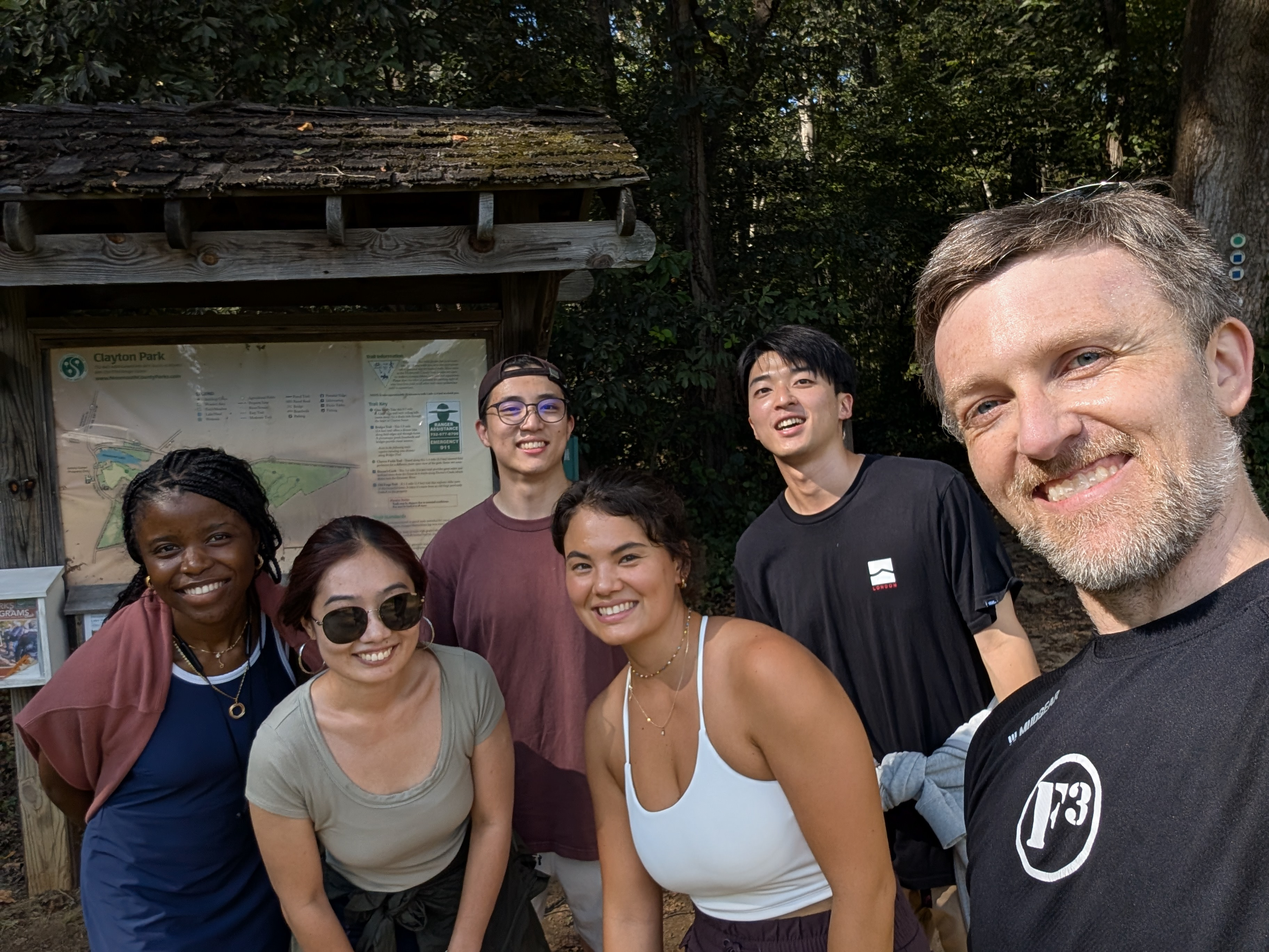
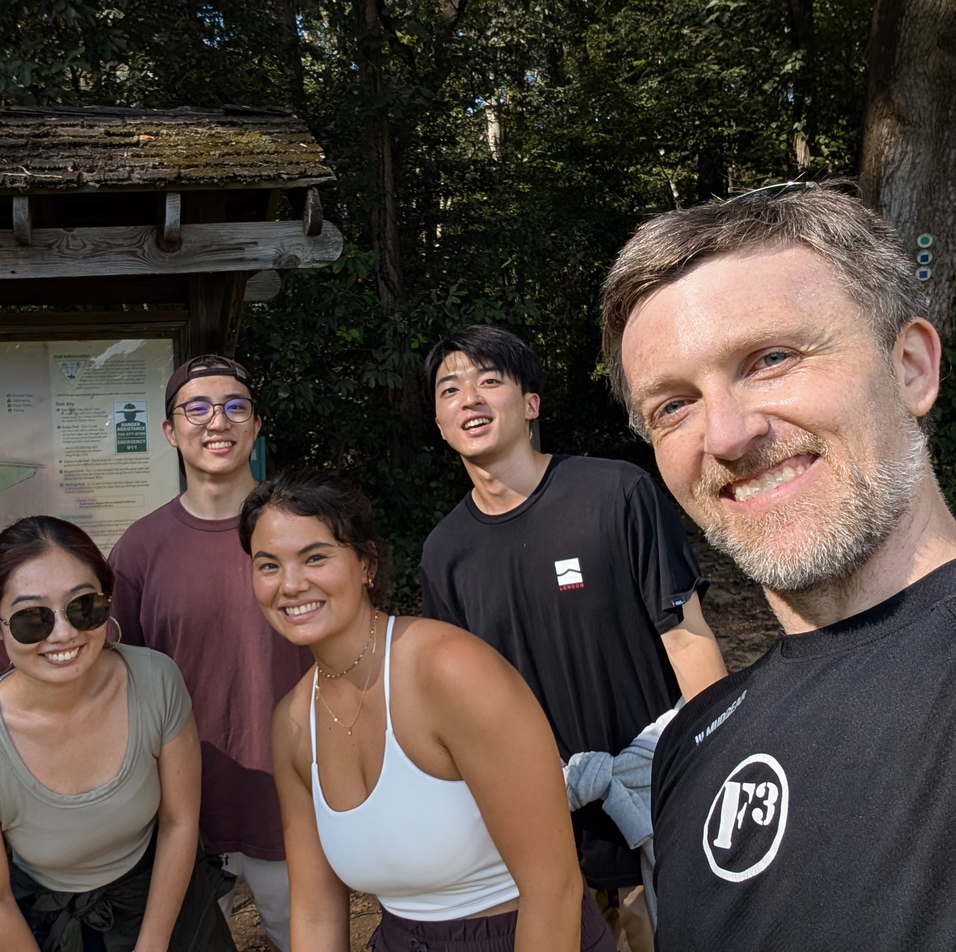
update gallery and news items
Claude-Session: https://claude.ai/code/session_0185sW3SoGqBHsSNRjMPcUX1

diff --git a/content/news/_index.md b/content/news/_index.md
@@ -24,7 +24,7 @@ title: News
 - *August 2025* - In Atlanta, Georgia, Jaebeom received the KSEA-KUSCO Graduate Scholarship from the Korean-American Scientists and Engineers Association (KSEA). The scholarship recognizes graduate students in the United States who excel in academics and community service and demonstrate the potential to become future leaders who foster closer cooperation between the United States and Korea.
 - *June 2025* - The lab received support for pyEQL development through the [Research Software Engineering ROVER Program](https://researchcomputing.princeton.edu/services/research-software-engineering/rover-program).
 - *June 2025* - The lab received Electric Power Research Institute (EPRI) funding for power plant brine valorization.
-- *May 2025* - At the Association of Environmental Engineering and Science Professors (AEESP) Biennial Conference in Durham, North Carolina, **Monong** presented a poster (title to be confirmed); **Jaebeom** presented "Systematic Assessment of Ion Binding to Ion Exchange Materials for Selective Separation of Critical Materials"; **Yitong** presented "Predicting Major Ion Concentration from Electrical Conductivity: A Hybrid Approach Using Machine Learning and Numerical Optimization"; **Ouriel** presented "A Thermodynamic Perspective on Ion Partitioning for Resource Recovery"; and **Shaun** presented the talk "Accelerated Discovery of Electrodes for Wastewater Refining."
+- *May 2025* - At the Association of Environmental Engineering and Science Professors (AEESP) Biennial Conference in Durham, North Carolina, **Monong** presented a poster (title to be confirmed); **Jaebeom** presented "Systematic Assessment of Ion Binding to Ion Exchange Materials for Selective Separation of Critical Materials"; **Yitong** presented "Predicting Major Ion Concentration from Electrical Conductivity: A Hybrid Approach Using Machine Learning and Numerical Optimization"; and **Shaun** presented the talk "Accelerated Discovery of Electrodes for Wastewater Refining."
 - *April 2025* - Jaebeom passed his Ph.D. general exam!
 - *March 2025* - At ACS Spring 2025 in San Diego, California, **Arpit** presented ["Analysis of Carbonate Precipitation from Alkaline Mine Waste Using First Principles, Multi-Element Pourbaix Diagrams"](https://acs.digitellinc.com/p/s/analysis-of-carbonate-precipitation-from-alkaline-mine-waste-using-first-principles-multi-element-pourbaix-diagrams-623601).
 - *January 2025* - Shaun passed his Ph.D. general exam!
@@ -34,5 +34,5 @@ title: News
 - *June 2024* - The lab received a [Sustainability Our Planet Award](https://research.princeton.edu/news/three-new-research-projects-receive-sustainability-our-planet-funding) from the Office of the Dean for Research (ODFR).
 - *May 2024* - In San Francisco, California, Maha won the Energy Technology Division Graduate Student Award, sponsored by BioLogic, at the 245th ECS Meeting.
 - *April 2024* - Welcome to the lab, Lewis!
-- *August 2023* - Welcome to the lab, Arpit, Jaebeom, Ouriel, Maha, and Shaun!
+- *August 2023* - Welcome to the lab, Arpit, Jaebeom, Maha, and Shaun!
 - *July 2023* - Ryan [officially joins Princeton](https://acee.princeton.edu/acee-news/ryan-kingsbury-joins-princeton-faculty-to-engineer-better-ion-selective-membranes/) as an Assistant Professor!

diff --git a/content/gallery/_index.md b/content/gallery/_index.md
@@ -17,17 +17,8 @@ title: Gallery
       <button class="gallery-thumb is-active" type="button" data-src="/img/group/2026_fall.jpg" data-alt="Kingsbury Lab Fall 2026 group photo" data-caption="Fall 2026 group photo" data-position="50% 80%">
         <img src="/img/group/2026_fall.jpg" alt="Fall 2026 group photo thumbnail">
       </button>
-      <button class="gallery-thumb" type="button" data-src="/img/group/2025_fall.jpg" data-alt="Kingsbury Lab Fall 2025 group photo" data-caption="Fall 2025 group photo" data-position="50% 50%">
-        <img src="/img/group/2025_fall.jpg" alt="Fall 2025 group photo thumbnail">
-      </button>
       <button class="gallery-thumb" type="button" data-src="/img/group/2025_spring.jpg" data-alt="Kingsbury Lab Spring 2025 group photo at AEESP" data-caption="Spring 2025 at AEESP" data-position="50% 50%">
         <img src="/img/group/2025_spring.jpg" alt="Spring 2025 group photo thumbnail">
-      </button>
-      <button class="gallery-thumb" type="button" data-src="/img/group/2024_fall.jpg" data-alt="Kingsbury Lab Fall 2024 group photo" data-caption="Fall 2024 group photo" data-position="50% 50%">
-        <img src="/img/group/2024_fall.jpg" alt="Fall 2024 group photo thumbnail">
-      </button>
-      <button class="gallery-thumb" type="button" data-src="/img/group/2024_spring.jpg" data-alt="Kingsbury Lab Spring 2024 group photo" data-caption="Spring 2024 group photo" data-position="50% 50%">
-        <img src="/img/group/2024_spring.jpg" alt="Spring 2024 group photo thumbnail">
       </button>
     </div>
     <button class="gallery-carousel-arrow gallery-carousel-next" type="button" aria-label="Show next group photo" title="Next photo">

diff --git a/content/gallery-events/2025-5-aeesp.md b/content/gallery-events/2025-5-aeesp.md
@@ -3,10 +3,8 @@ title: "AEESP 2025"
 date: 2025-05-02
 type: gallery-event
 url: /gallery/2025-may-aeesp/
-cover: "/img/gallery/2025-05-aeesp/2025-05 AEESP.jpg"
+cover: "/img/gallery/2025-05-aeesp/2025-05 AEESP Group Pic (1).jpeg"
 gallery_images:
-  - src: "/img/gallery/2025-05-aeesp/2025-05 AEESP.jpg"
-    alt: "Kingsbury Lab at AEESP 2025"
   - src: "/img/gallery/2025-05-aeesp/2025-05 AEESP Group Pic (1).jpeg"
     alt: "Kingsbury Lab group photo at AEESP 2025, photo 1"
   - src: "/img/gallery/2025-05-aeesp/2025-05 AEESP Group Pic (2).jpeg"
